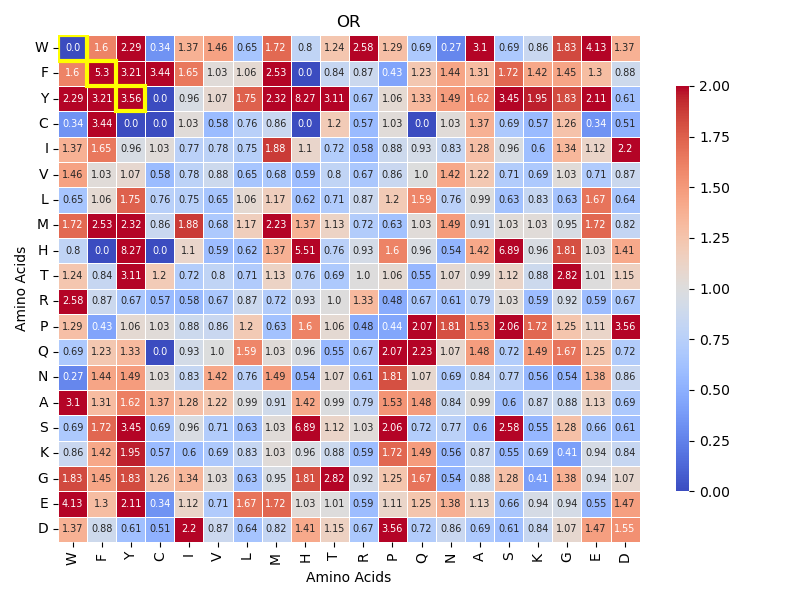
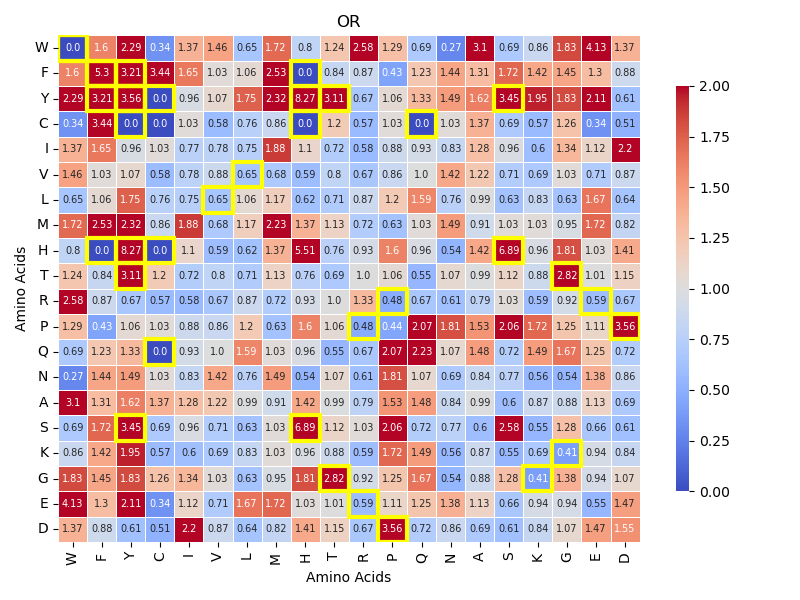
updated the plotting script to handel np.nan in pvalue dataframe

diff --git a/Sequence_Complexity_and_Discrimination/src/data/Plot_OR_results_with_permutation.py b/Sequence_Complexity_and_Discrimination/src/data/Plot_OR_results_with_permutation.py
@@ -102,14 +102,15 @@ class Plotter:
         self.OR.set_index('AA', inplace=True)
         print(f'self.OR:\n{self.OR.to_string()}')
 
+
         self.OR_pvalues_file = self.__dict__['OR_pvalues_file']
         print(f'self.OR_pvalues_file: {self.OR_pvalues_file}')
         if os.path.exists(self.OR_pvalues_file):
             self.OR_pvalues = pd.read_csv(self.OR_pvalues_file)
             self.OR_pvalues.set_index('AA', inplace=True)
-            a = self.OR_pvalues.values
-            symmetric_a = np.maximum(a, a.T)
-            self.OR_pvalues = pd.DataFrame(symmetric_a, index=self.OR_pvalues.index, columns=self.OR_pvalues.columns)
+            #a = self.OR_pvalues.values
+            #symmetric_a = np.maximum(a, a.T)
+            #self.OR_pvalues = pd.DataFrame(symmetric_a, index=self.OR_pvalues.index, columns=self.OR_pvalues.columns)
             self.OR_pvalues.at['C', 'C'] = 1
             print(f'self.OR_pvalues:\n{self.OR_pvalues.to_string()}')
             self.data['OR'] = {'df':self.OR, 'pvalues':self.OR_pvalues}
@@ -140,6 +141,7 @@ class Plotter:
             #print(info, data_dict)
 
             df = data_dict['df']
+            print(df)
             pvalues_df = data_dict['pvalues']
 
             df = df.replace([np.inf, -np.inf], np.nan).fillna(0)
@@ -154,8 +156,9 @@ class Plotter:
                 # Highlight cells based on df2 values
                 for i in range(pvalues_df.shape[0]):
                     for j in range(pvalues_df.shape[1]):
-                        if pvalues_df.iloc[i, j] < 0.05:
+                        if pvalues_df.iloc[i, j] < 0.05 and df.iloc[i,j] != np.nan: 
                             heatmap.add_patch(plt.Rectangle((j, i), 1, 1, fill=False, edgecolor='yellow', lw=3))
+                            heatmap.add_patch(plt.Rectangle((i, j), 1, 1, fill=False, edgecolor='yellow', lw=3))
 
             # Set labels
             heatmap.set_yticklabels(df.index, rotation=0)
